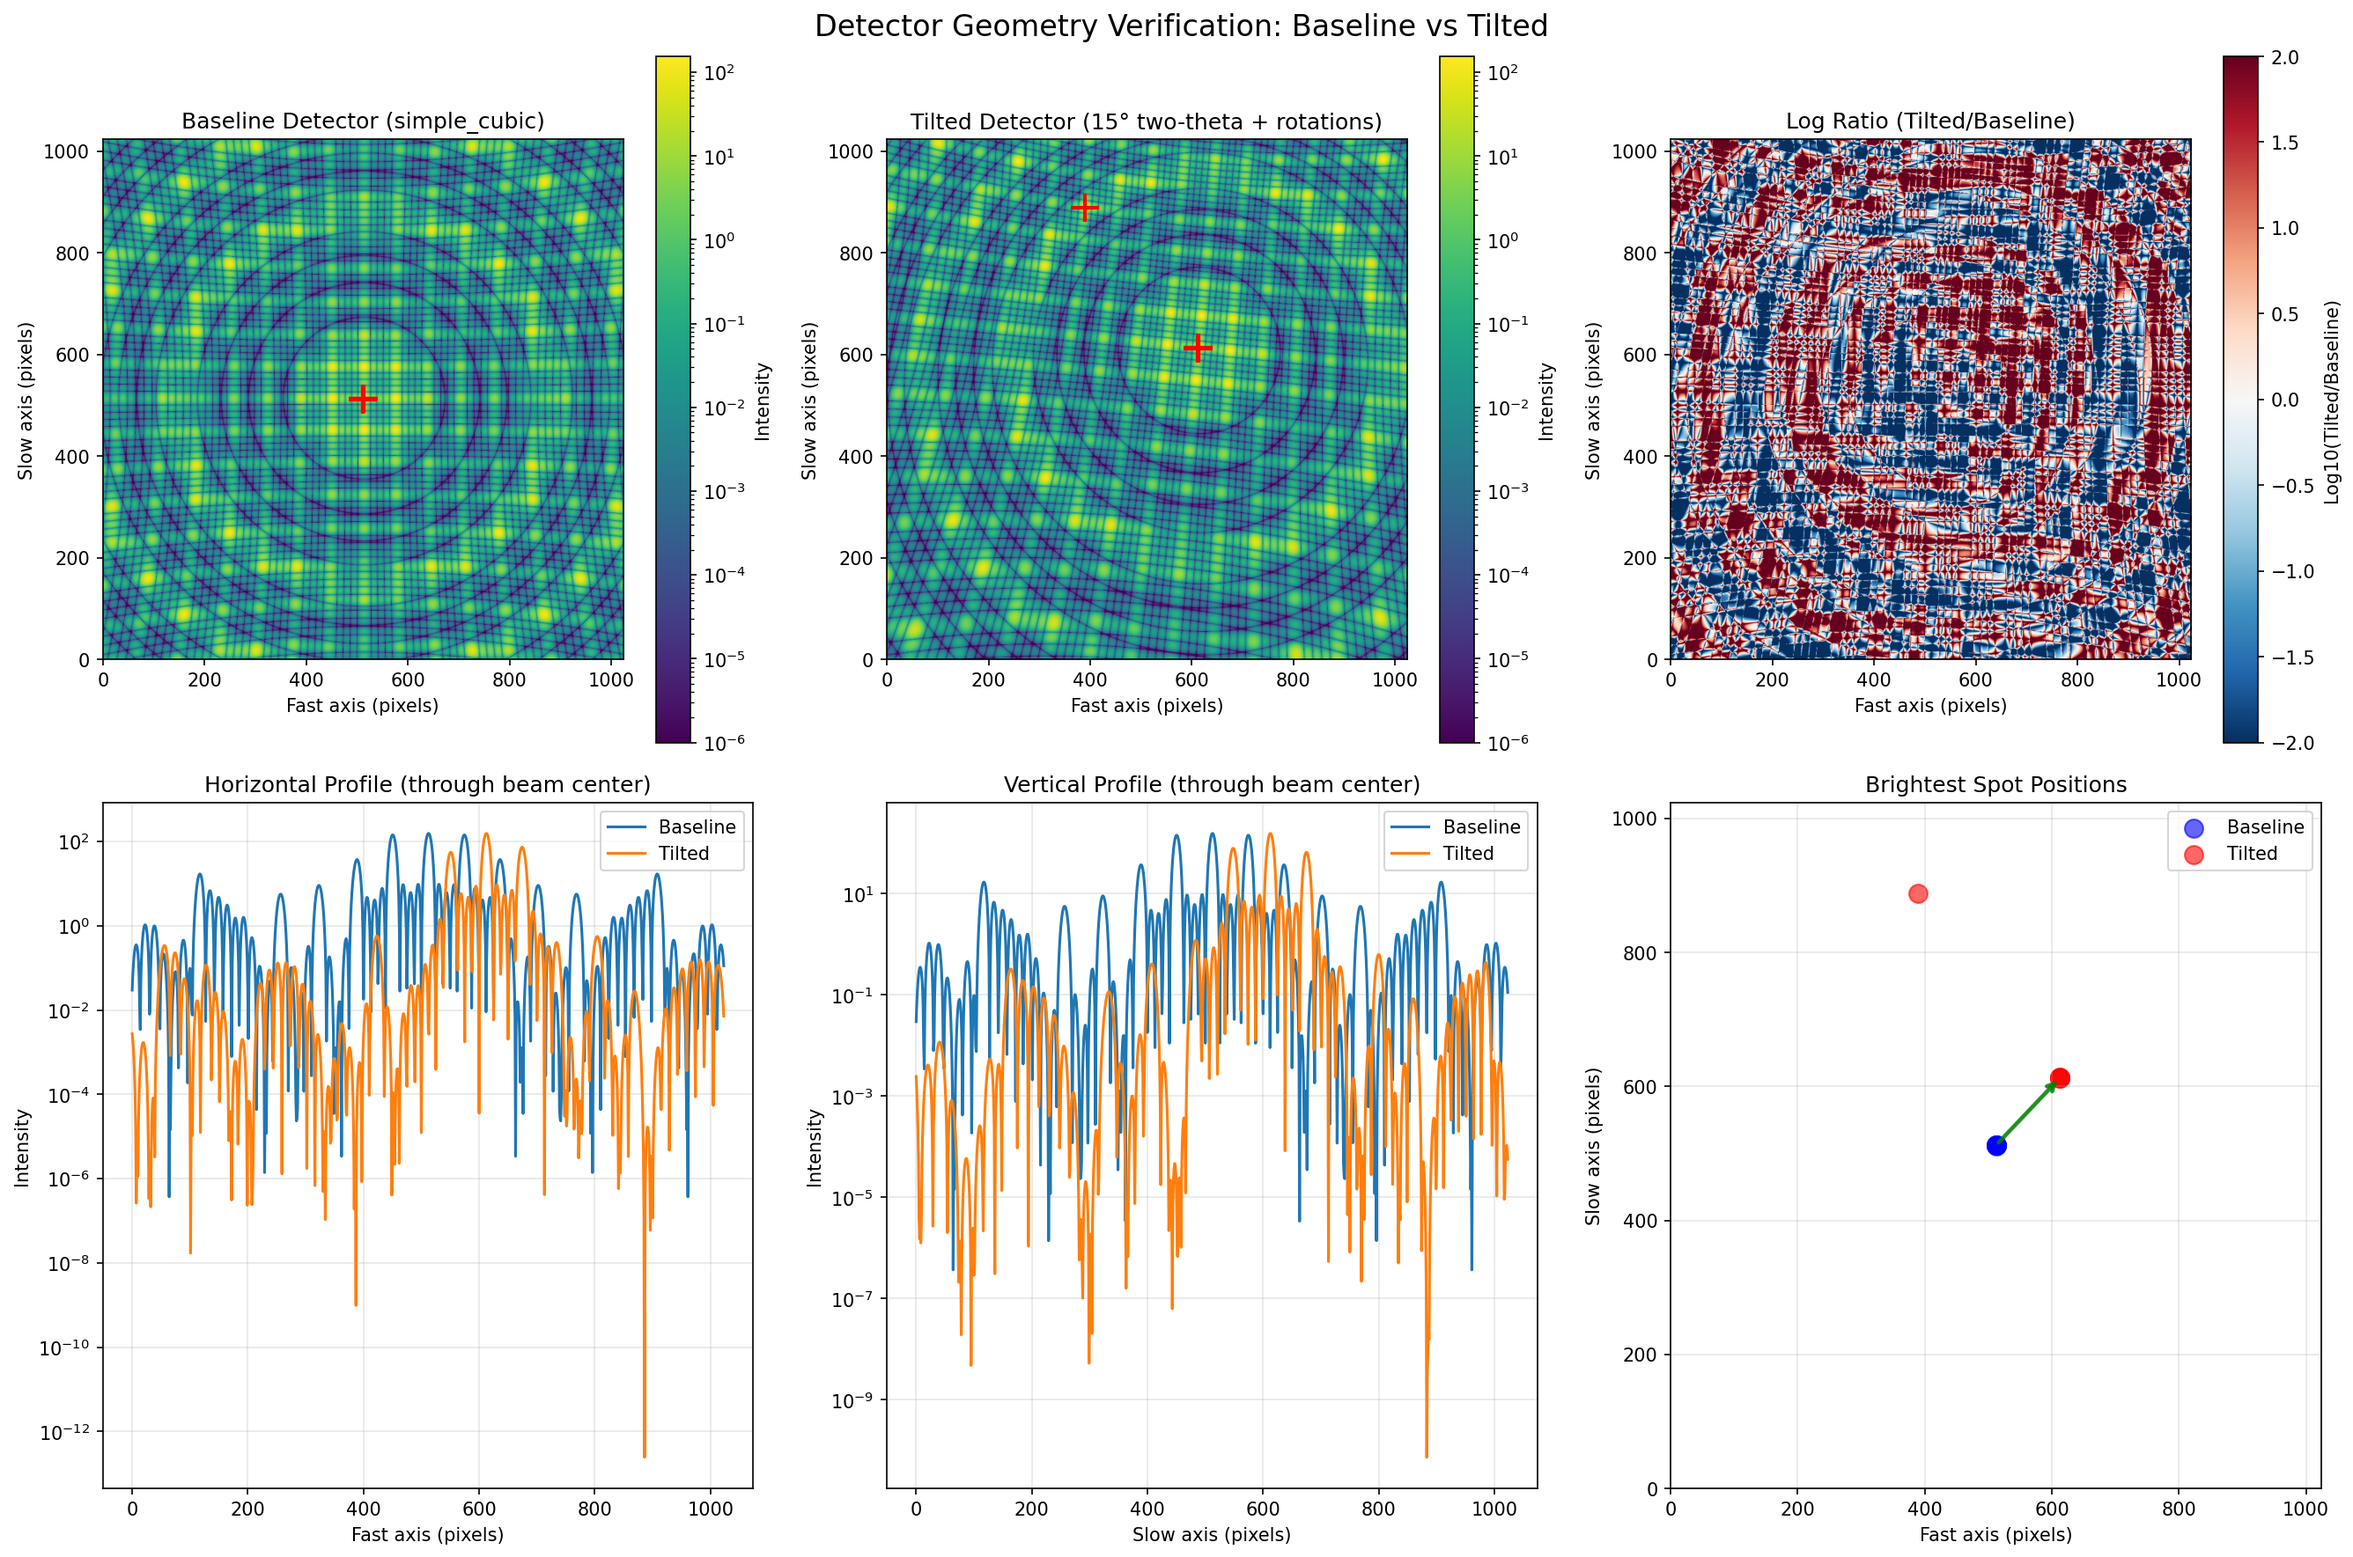
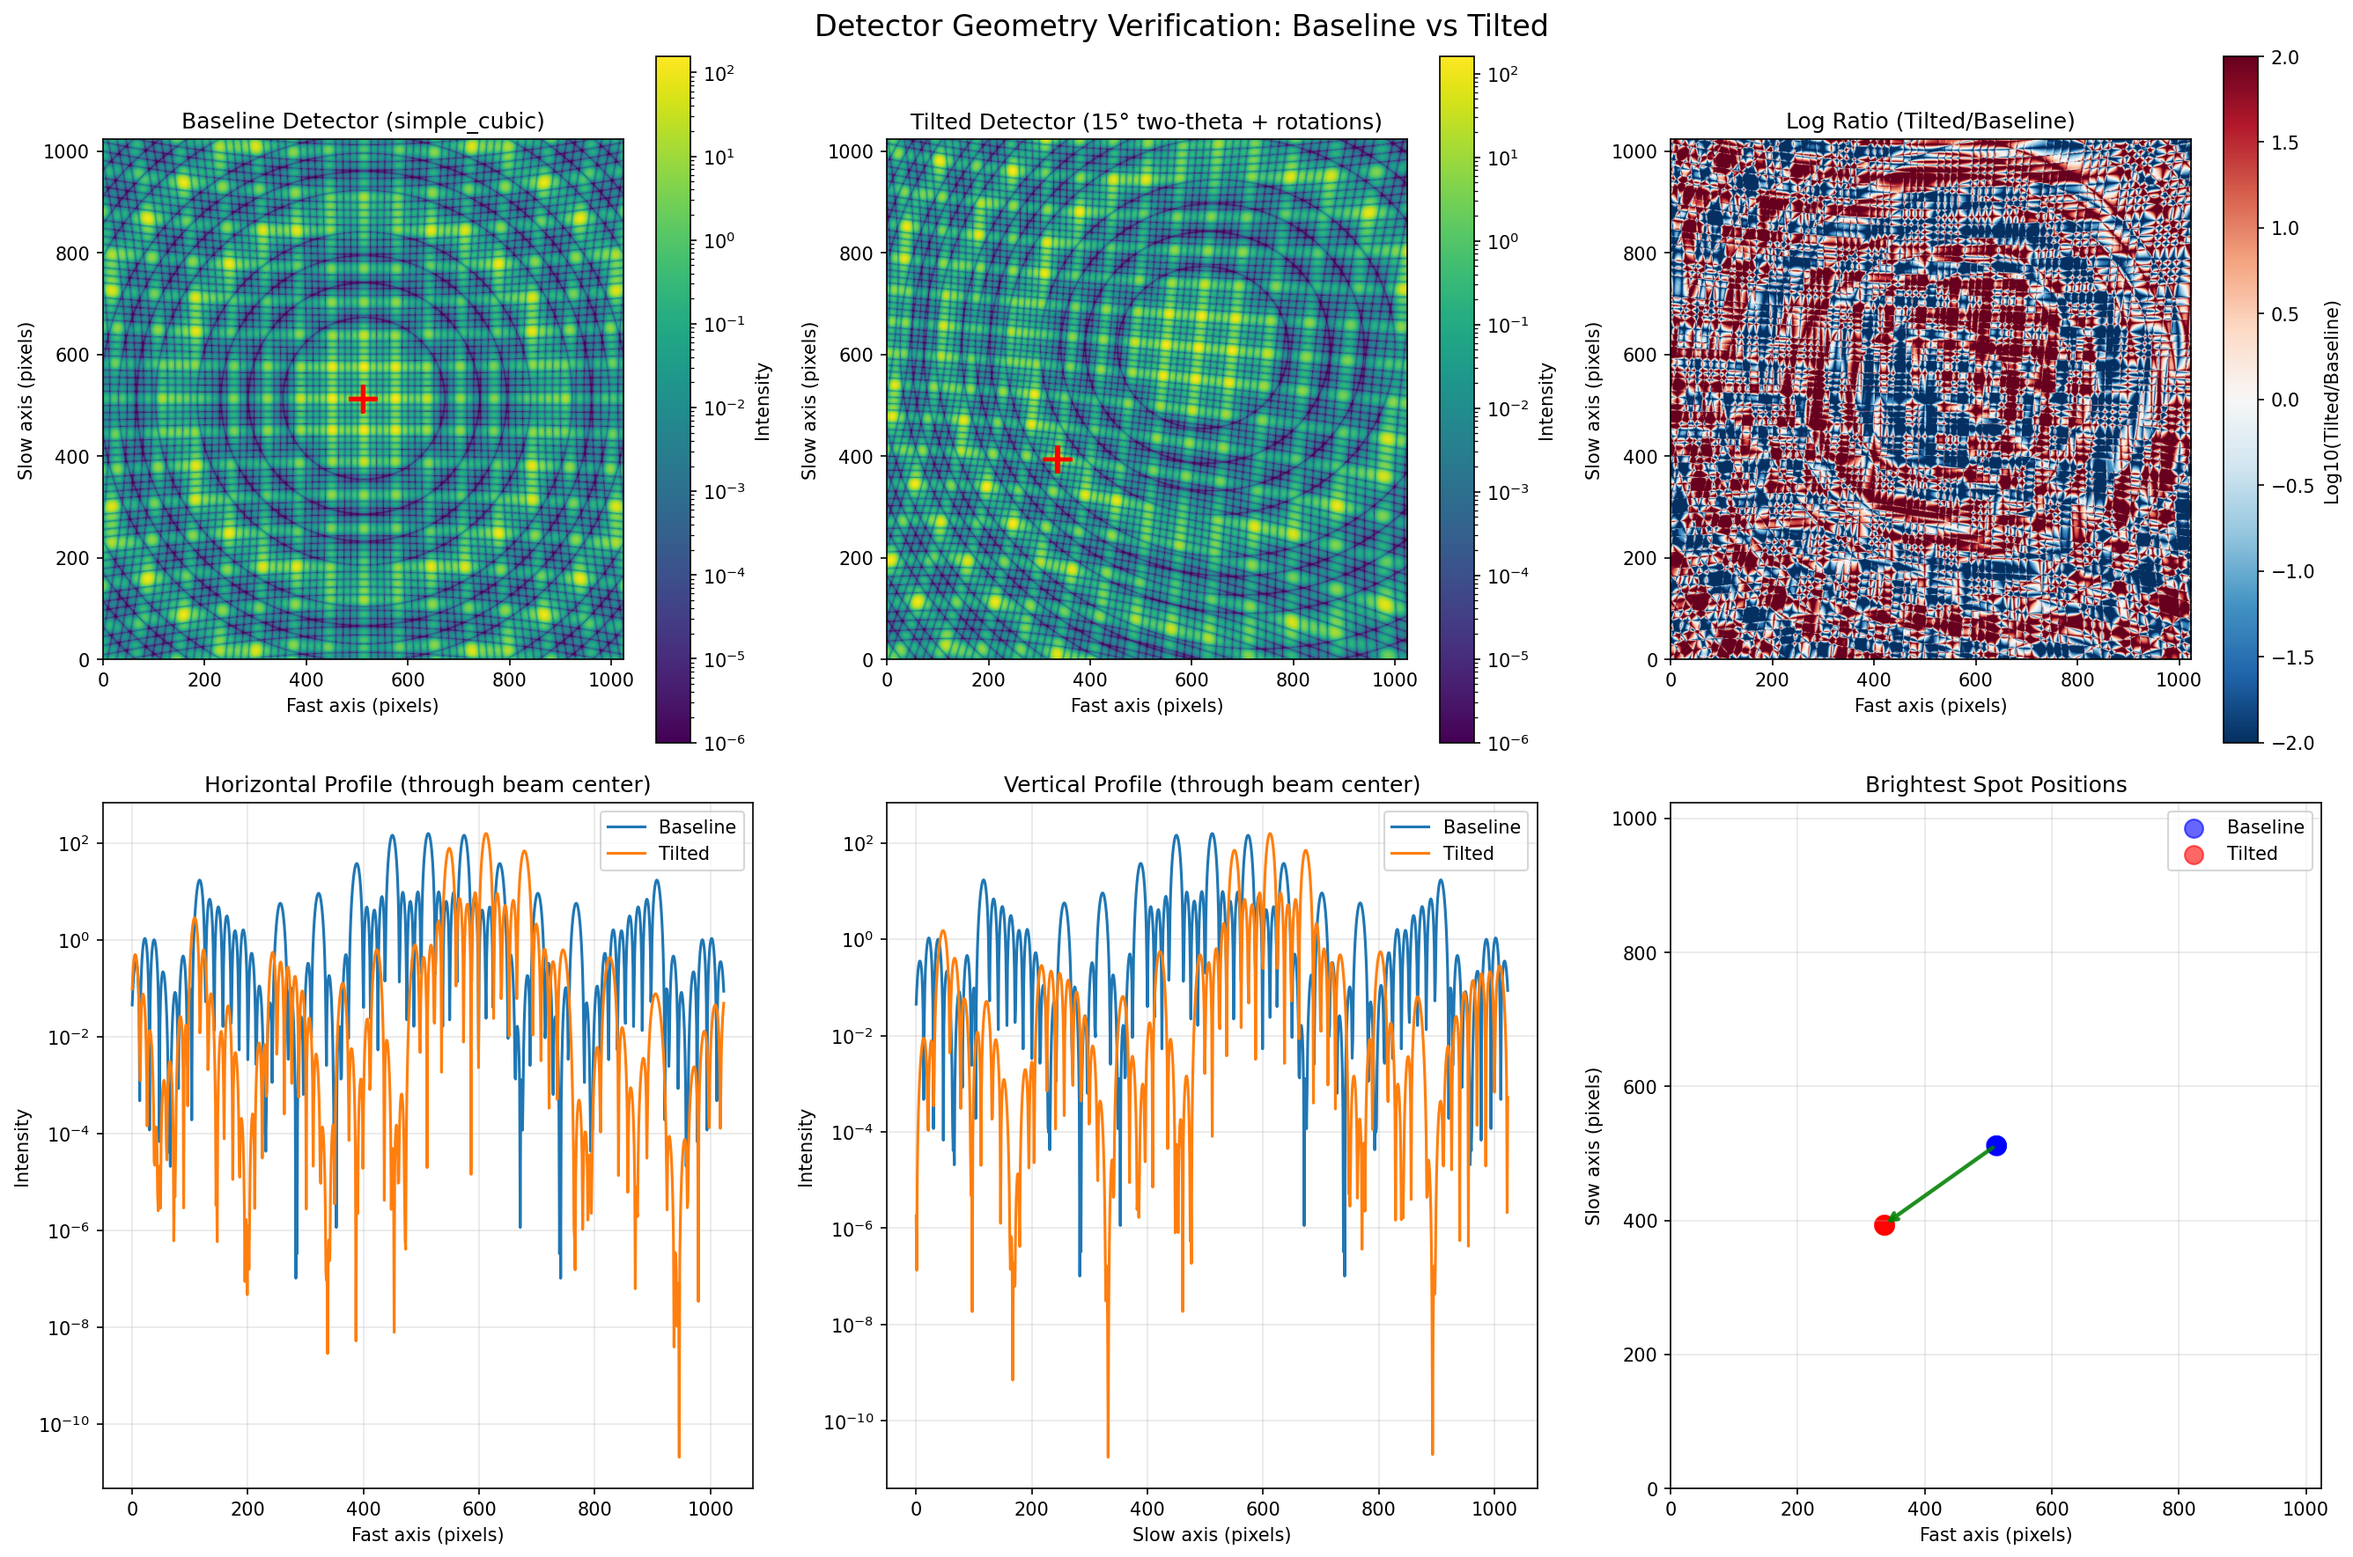
wip

diff --git a/src/nanobrag_torch/models/detector.py b/src/nanobrag_torch/models/detector.py
@@ -255,28 +255,9 @@ class Detector:
                     [0.0, 0.0, 1.0], device=self.device, dtype=self.dtype
                 )
 
-            # Fbeam and Sbeam calculation depends on convention
-            # For MOSFLM: Fbeam = Ybeam + 0.5*pixel_size, Sbeam = Xbeam + 0.5*pixel_size
-            # where Xbeam/Ybeam are the input beam center in mm
-            if self.config.detector_convention == DetectorConvention.MOSFLM:
-                # MOSFLM convention: Fbeam = Ybeam + 0.5*pixel_size, Sbeam = Xbeam + 0.5*pixel_size
-                # Per MOSFLM convention, the fast-axis beam center (f) is Ybeam,
-                # and the slow-axis beam center (s) is Xbeam.
-                Xbeam_mm = self.config.beam_center_s  # Slow-axis maps to Xbeam
-                Ybeam_mm = self.config.beam_center_f  # Fast-axis maps to Ybeam
-                # The formula uses Fbeam for the fast-axis vector (fdet_vec) and Sbeam for the slow-axis (sdet_vec).
-                # Therefore, Fbeam must use Ybeam_mm and Sbeam must use Xbeam_mm.
-                Fbeam = (
-                    Ybeam_mm + 0.5 * self.config.pixel_size_mm
-                ) / 1000.0  # Convert mm to meters
-                Sbeam = (
-                    Xbeam_mm + 0.5 * self.config.pixel_size_mm
-                ) / 1000.0  # Convert mm to meters
-
-            else:
-                # Default behavior for other conventions
-                Fbeam = self.beam_center_f * self.pixel_size  # in meters
-                Sbeam = self.beam_center_s * self.pixel_size  # in meters
+            # Distances along detector axes measured from pixel centers (meters)
+            Fbeam = self.beam_center_f * self.pixel_size
+            Sbeam = self.beam_center_s * self.pixel_size
 
             # Calculate pix0_vector using BEAM pivot formula
             # Uses the ROTATED basis vectors
@@ -287,9 +268,10 @@ class Detector:
             )
         else:
             # SAMPLE pivot mode: detector rotates around the sample
-            # CRITICAL: Must calculate pix0_vector BEFORE rotating basis vectors
-            
-            # Get initial (unrotated) basis vectors based on convention
+            # IMPORTANT: Compute pix0 BEFORE rotating, using the same formula as C:
+            # pix0 = -Fclose*fdet - Sclose*sdet + close_distance*odet
+
+            # Unrotated basis (by convention)
             if self.config.detector_convention == DetectorConvention.MOSFLM:
                 fdet_initial = torch.tensor([0.0, 0.0, 1.0], device=self.device, dtype=self.dtype)
                 sdet_initial = torch.tensor([0.0, -1.0, 0.0], device=self.device, dtype=self.dtype)
@@ -299,30 +281,25 @@ class Detector:
                 fdet_initial = torch.tensor([1.0, 0.0, 0.0], device=self.device, dtype=self.dtype)
                 sdet_initial = torch.tensor([0.0, 1.0, 0.0], device=self.device, dtype=self.dtype)
                 odet_initial = torch.tensor([0.0, 0.0, 1.0], device=self.device, dtype=self.dtype)
-            
-            # Calculate initial detector origin using unrotated vectors
-            detector_origin_initial = self.distance * odet_initial
 
-            # Calculate offset from detector center to pixel (0.5,0.5)
-            # Note: beam_center_s/f are already in pixel units
-            # Using 0.5 for pixel center convention
-            s_offset = (0.5 - self.beam_center_s) * self.pixel_size
-            f_offset = (0.5 - self.beam_center_f) * self.pixel_size
+            # Distances from pixel (0,0) center to the beam spot, measured along detector axes
+            Fclose = self.beam_center_f * self.pixel_size  # meters
+            Sclose = self.beam_center_s * self.pixel_size  # meters
 
-            # Calculate initial pix0_vector using UNROTATED basis vectors
+            # Compute pix0 BEFORE rotations (close_distance == self.distance)
             pix0_initial = (
-                detector_origin_initial + s_offset * sdet_initial + f_offset * fdet_initial
+                -Fclose * fdet_initial
+                - Sclose * sdet_initial
+                + self.distance * odet_initial
             )
-            
-            # Now apply the same rotations as applied to basis vectors
-            # Get rotation parameters
+
+            # Now rotate pix0 with detector_rotx/roty/rotz and twotheta, same as C
             c = self.config
             detector_rotx = degrees_to_radians(c.detector_rotx_deg)
             detector_roty = degrees_to_radians(c.detector_roty_deg)
             detector_rotz = degrees_to_radians(c.detector_rotz_deg)
             detector_twotheta = degrees_to_radians(c.detector_twotheta_deg)
-            
-            # Ensure all angles are tensors
+
             if not isinstance(detector_rotx, torch.Tensor):
                 detector_rotx = torch.tensor(detector_rotx, device=self.device, dtype=self.dtype)
             if not isinstance(detector_roty, torch.Tensor):
@@ -331,22 +308,18 @@ class Detector:
                 detector_rotz = torch.tensor(detector_rotz, device=self.device, dtype=self.dtype)
             if not isinstance(detector_twotheta, torch.Tensor):
                 detector_twotheta = torch.tensor(detector_twotheta, device=self.device, dtype=self.dtype)
-            
-            # Apply detector rotations (rotx, roty, rotz)
+
             rotation_matrix = angles_to_rotation_matrix(detector_rotx, detector_roty, detector_rotz)
             pix0_rotated = torch.matmul(rotation_matrix, pix0_initial)
-            
-            # Apply two-theta rotation
+
             if isinstance(c.twotheta_axis, torch.Tensor):
                 twotheta_axis = c.twotheta_axis.to(device=self.device, dtype=self.dtype)
             else:
                 twotheta_axis = torch.tensor(c.twotheta_axis, device=self.device, dtype=self.dtype)
-            
-            # Check if twotheta is non-zero
-            is_nonzero = torch.abs(detector_twotheta) > 1e-12
-            if is_nonzero:
+
+            if _nonzero_scalar(detector_twotheta):
                 pix0_rotated = rotate_axis(pix0_rotated, twotheta_axis, detector_twotheta)
-            
+
             self.pix0_vector = pix0_rotated
 
     def get_pixel_coords(self) -> torch.Tensor:
@@ -557,8 +530,7 @@ class Detector:
             )
 
         # Check if twotheta is non-zero (handle both scalar and tensor cases)
-        is_nonzero = torch.abs(detector_twotheta) > 1e-12
-        if is_nonzero:
+        if _nonzero_scalar(detector_twotheta):
             fdet_vec = rotate_axis(fdet_vec, twotheta_axis, detector_twotheta)
             sdet_vec = rotate_axis(sdet_vec, twotheta_axis, detector_twotheta)
             odet_vec = rotate_axis(odet_vec, twotheta_axis, detector_twotheta)

diff --git a/src/nanobrag_torch/config.py b/src/nanobrag_torch/config.py
@@ -160,8 +160,8 @@ class DetectorConfig:
         if self.twotheta_axis is None:
             # Default depends on detector convention
             if self.detector_convention == DetectorConvention.MOSFLM:
-                # MOSFLM convention: twotheta axis is [0, 0, -1] (C-code line 1194)
-                self.twotheta_axis = torch.tensor([0.0, 0.0, -1.0])
+                # MOSFLM convention: swings detector about lab Y (vertical) axis
+                self.twotheta_axis = torch.tensor([0.0, 1.0, 0.0])
             elif self.detector_convention == DetectorConvention.XDS:
                 # XDS convention: twotheta axis is [1, 0, 0] (C-code line 1221)
                 self.twotheta_axis = torch.tensor([1.0, 0.0, 0.0])

diff --git a/CLAUDE.md b/CLAUDE.md
@@ -2,6 +2,19 @@
 
 This file provides guidance to Claude Code (claude.ai/code) when working with code in this repository.
 
+## 🚀 Current Initiative: Parallel Trace Validation
+
+**Status**: Active development  
+**Goal**: Fix detector geometry mismatch in tilted configurations using systematic parallel trace debugging  
+**Location**: `initiatives/parallel-trace-validation/`  
+**R&D Plan**: See `initiatives/parallel-trace-validation/docs/rd-plan.md`
+
+**Problem**: Tilted detector configurations show poor correlation (<0.9) vs C reference, while simple cubic achieves perfect correlation (>0.999).
+
+**Approach**: Generate identical, deterministic trace logs from both C and Python implementations to identify exact divergence point in geometry calculations.
+
+---
+
 **For a complete overview of the project's architecture and conventions, see the [Architecture Hub](./docs/architecture/README.md).**
 
 ## 📋 Quick Reference: nanoBragg C Commands
